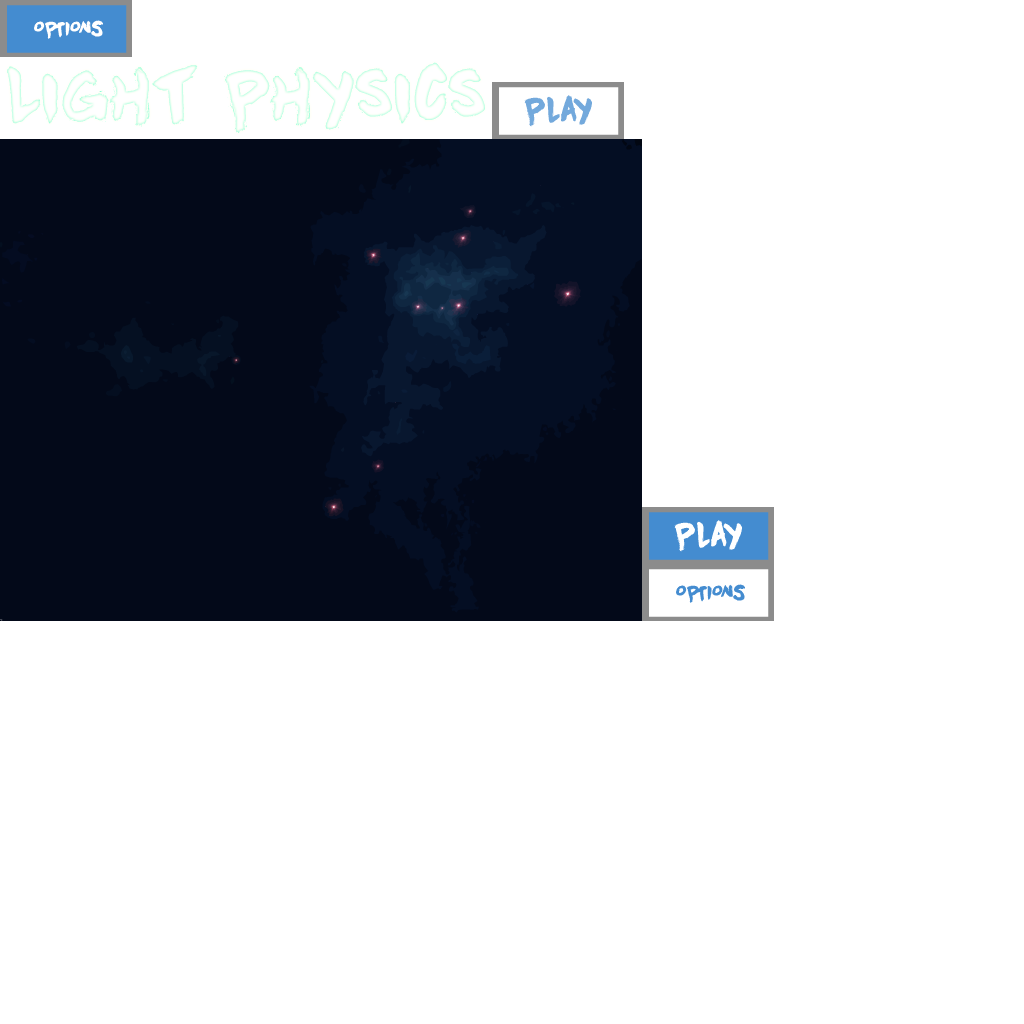
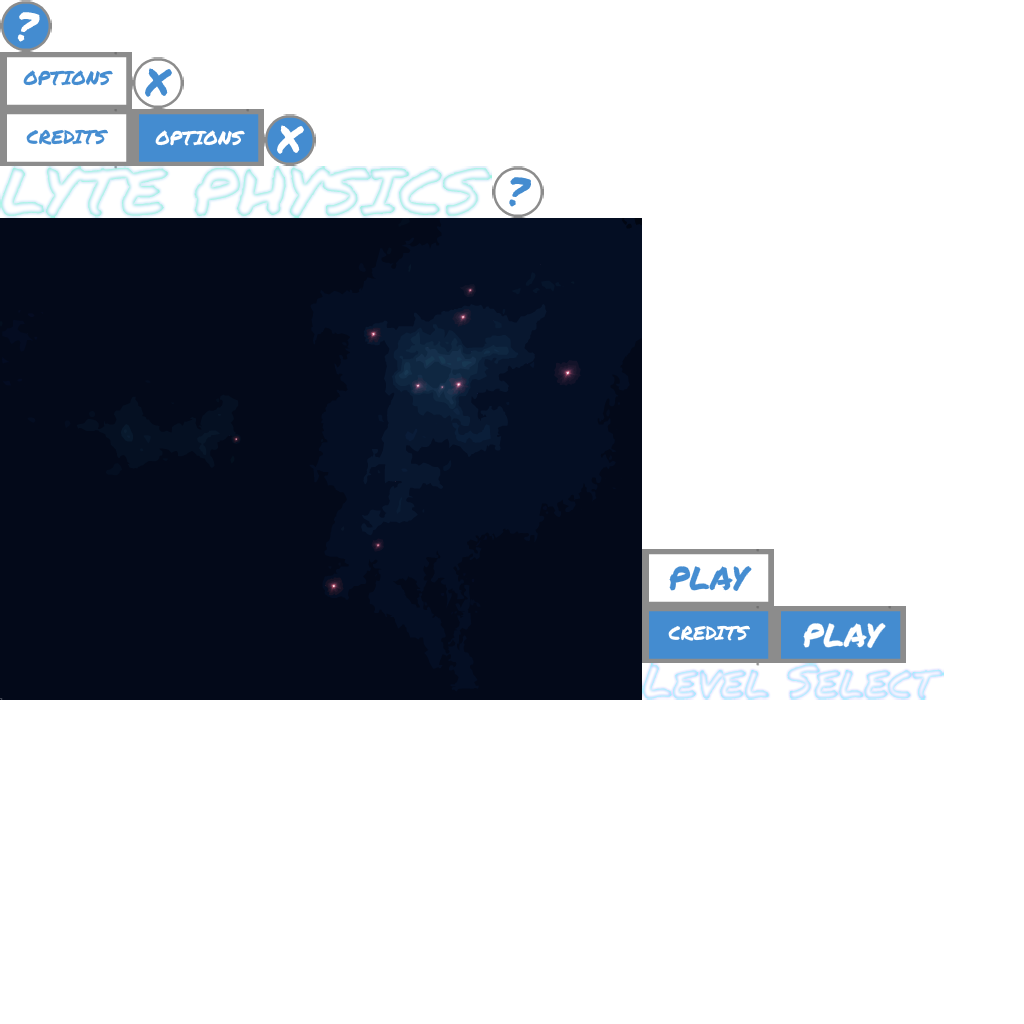
Changed Menu Screen Assets

diff --git a/core/src/com/jsd/lyte/MenuScreen.java b/core/src/com/jsd/lyte/MenuScreen.java
@@ -54,6 +54,8 @@ public class MenuScreen extends AbstractGameScreen {
 	private Table buildForeground() {
 		Vector2 SCREEN = Assets.instance.queryScreen();
 		Table layer = new Table();
+		Table center = new Table();
+		Table bottomStrip = new Table();
 		TextButton playBtn = 
 				AssetFactory.createButton(menuaAtlas, 
 				Constants.BTN_PLAY_UP, Constants.BTN_PLAY_DOWN, false);
@@ -62,13 +64,13 @@ public class MenuScreen extends AbstractGameScreen {
 				Constants.BTN_OPT_UP, Constants.BTN_OPT_DOWN, false);
 		TextButton creditsBtn = 
 				AssetFactory.createButton(menuaAtlas, 
-				Constants.BTN_OPT_UP, Constants.BTN_OPT_DOWN, false);
+				Constants.BTN_CREDITS_UP, Constants.BTN_CREDITS_DOWN, false);
 		TextButton helpBtn = 
 				AssetFactory.createButton(menuaAtlas, 
-				Constants.BTN_OPT_UP, Constants.BTN_OPT_DOWN, false);
+				Constants.BTN_HELP_UP, Constants.BTN_HELP_DOWN, false);
 		TextButton quitBtn = 
 				AssetFactory.createButton(menuaAtlas, 
-				Constants.BTN_OPT_UP, Constants.BTN_OPT_DOWN, false);
+				Constants.BTN_QUIT_UP, Constants.BTN_QUIT_DOWN, false);
 		playBtn.addListener(new ClickListener(){
 			public void clicked(InputEvent event, float x, float y) {
 				game.setScreen(new LevelSelectScreen(game));
@@ -84,22 +86,37 @@ public class MenuScreen extends AbstractGameScreen {
 		
 		Image logo = AssetFactory.createImage(menuaAtlas, 
 											  Constants.IMG_GAME_LOGO);
-//		layer.debug();
-		layer.setBounds(0, 0, SCREEN.x, SCREEN.y);
-//		layer.align(Align.center);
-		layer.add(logo);//.padTop(100.0f);
-		layer.row();
-		layer.add(playBtn);//.padTop(150.0f);
-		layer.row();
-		layer.add(optBtn);//.padTop(200.0f);
-		layer.row();
-		layer.add(creditsBtn);//.padTop(250.0f);
-		layer.row();
-		layer.add(helpBtn);//.padTop(300.0f);
-		layer.row();
-		layer.add(quitBtn);//.padTop(350.0f);
+		
+		float h = quitBtn.getMinHeight();
+		center.setBounds(0, 0, SCREEN.x, SCREEN.y);
+		bottomStrip.setBounds(0, 0, SCREEN.x, h);
 		
 		
+		
+		center.add(logo);
+		center.row();
+		
+		
+		center.add(playBtn).padTop(0.05f*SCREEN.y);
+		center.row();
+		
+		
+		center.add(optBtn).padTop(0.03f*SCREEN.y);
+		center.row();
+		
+		
+		center.add(creditsBtn).padTop(0.03f*SCREEN.y);
+		center.row();
+		
+		
+		bottomStrip.add(quitBtn);
+		bottomStrip.add();
+		bottomStrip.add(helpBtn).padLeft(0.84f*SCREEN.x);
+		
+		layer.align(Align.center);
+		layer.add(center);
+		layer.row();
+		layer.add(bottomStrip).padTop(0.30f*SCREEN.y);
 		return layer;
 	}
 	

diff --git a/core/src/com/jsd/lyte/Constants.java b/core/src/com/jsd/lyte/Constants.java
@@ -30,6 +30,15 @@ public class Constants {
 	public static final String BTN_OPT_UP 	 = "OptUp";
 	public static final String BTN_OPT_DOWN  = "OptDown";
 	
+	public static final String BTN_CREDITS_UP 	 = "CreditsUp";
+	public static final String BTN_CREDITS_DOWN  = "CreditsDown";
+	
+	public static final String BTN_HELP_UP 	 = "HelpUp";
+	public static final String BTN_HELP_DOWN  = "HelpDown";
+	
+	public static final String BTN_QUIT_UP 	 = "QuitUp";
+	public static final String BTN_QUIT_DOWN  = "QuitDown";
+	
 	public static final String BTN_PAUSE_UP 	 = "PauseUp";
 	public static final String BTN_PAUSE_DOWN  = "PauseDown";
 	

diff --git a/core/src/com/jsd/lyte/HUDStage.java b/core/src/com/jsd/lyte/HUDStage.java
@@ -3,7 +3,6 @@ package com.jsd.lyte;
 
 import com.badlogic.gdx.Gdx;
 import com.badlogic.gdx.Input.Keys;
-import com.badlogic.gdx.graphics.Color;
 import com.badlogic.gdx.graphics.g2d.TextureAtlas;
 import com.badlogic.gdx.math.Vector2;
 import com.badlogic.gdx.scenes.scene2d.InputEvent;
@@ -13,7 +12,7 @@ import com.badlogic.gdx.scenes.scene2d.ui.Table;
 import com.badlogic.gdx.scenes.scene2d.ui.TextButton;
 import com.badlogic.gdx.scenes.scene2d.ui.Window;
 import com.badlogic.gdx.scenes.scene2d.utils.ClickListener;
-import com.badlogic.gdx.utils.Json;
+
 
 public class HUDStage extends Stage
 {	
